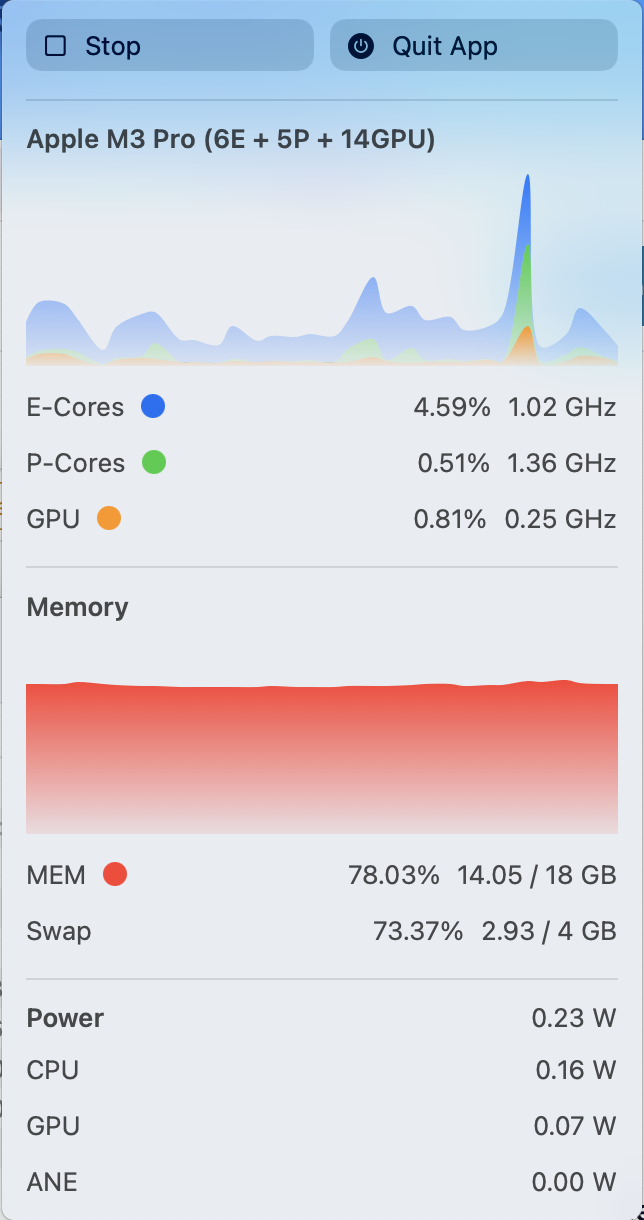
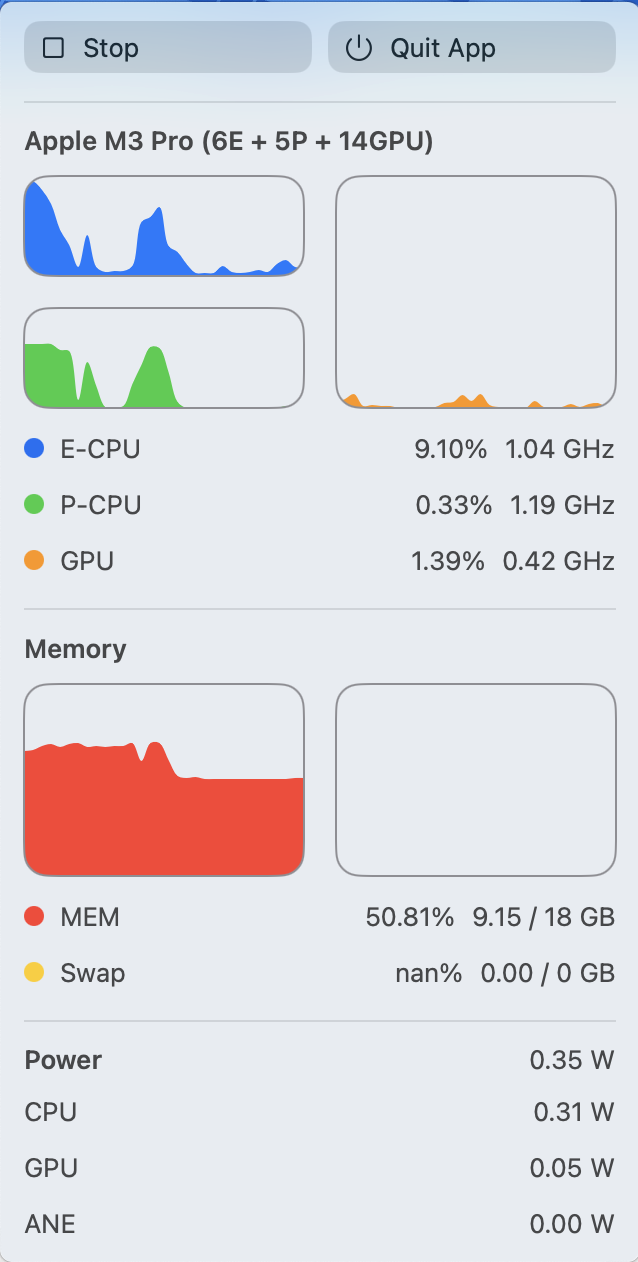
v1.1: Improve menu UI

diff --git a/StatsBar/View/MenuView.swift b/StatsBar/View/MenuView.swift
@@ -10,12 +10,29 @@ import Charts
 import Collections
 
 struct UsagePoint: Identifiable {
-    let id: UInt64 = UInt64(Date().timeIntervalSince1970.magnitude)
-    let eCPUUsage: Double
-    let pCPUUsage: Double
+    let id: UInt64
+    let eCpuUsage: Double
+    let pCpuUsage: Double
     let gpuUsage: Double
     let memUsage: Double
     let swapUsage: Double
+
+    init(id: UInt64, eCPUUsage: Double, pCPUUsage: Double, gpuUsage: Double, memUsage: Double, swapUsage: Double) {
+        self.id = id
+        self.eCpuUsage = eCPUUsage
+        self.pCpuUsage = pCPUUsage
+        self.gpuUsage = gpuUsage
+        self.memUsage = memUsage
+        self.swapUsage = swapUsage
+    }
+
+    static func mockData() -> Deque<UsagePoint> {
+        var res: Deque<UsagePoint> = []
+        for _ in 0...32 {
+            res.append(UsagePoint(id: res.last?.id.advanced(by: 1) ?? 1, eCPUUsage: 0, pCPUUsage: 0, gpuUsage: 0, memUsage: 0, swapUsage: 0))
+        }
+        return res
+    }
 }
 
 struct MenuView: View {
@@ -25,7 +42,8 @@ struct MenuView: View {
     @State private var metrics: Metrics?
     @State var delegate: AppDelegate
 
-    @State private var usageGraph: Deque<UsagePoint> = []
+    @State private var usageGraph: Deque<UsagePoint> = UsagePoint.mockData()
+    @State private var graphShape = RoundedRectangle(cornerRadius: 12)
 
     var body: some View {
         VStack {
@@ -51,7 +69,16 @@ struct MenuView: View {
                                     DispatchQueue.main.async {
                                         self.metrics = metrics
 
-                                        self.usageGraph.append(UsagePoint(eCPUUsage: metrics.getECPUInfo()[0], pCPUUsage: metrics.getPCPUInfo()[0], gpuUsage: metrics.getGPUUsage(), memUsage: metrics.getMemUsage(), swapUsage: metrics.getSwapUsage()))
+                                        self.usageGraph.append(
+                                            UsagePoint(
+                                                id: self.usageGraph.last?.id.advanced(by: 1) ?? UInt64(Date().timeIntervalSince1970.magnitude),
+                                                eCPUUsage: metrics.getECPUInfo()[0],
+                                                pCPUUsage: metrics.getPCPUInfo()[0],
+                                                gpuUsage: metrics.getGPUUsage(),
+                                                memUsage: metrics.getMemUsage(),
+                                                swapUsage: metrics.getSwapUsage()
+                                            )
+                                        )
                                         while self.usageGraph.count > 32 {
                                             let _ = self.usageGraph.popFirst()
                                         }
@@ -82,7 +109,7 @@ struct MenuView: View {
                 Button {
                     NSApplication.shared.terminate(nil)
                 } label: {
-                    Label("Quit App", systemImage: "power.circle.fill")
+                    Label("Quit App", systemImage: "power")
                         .frame(maxWidth: .infinity, alignment: .leading)
                         .padding(.vertical, 4)
                 }
@@ -100,58 +127,92 @@ struct MenuView: View {
                         .fontWeight(.semibold)
                         .frame(maxWidth: .infinity, alignment: .leading)
 
-                    Chart(self.usageGraph) {
-                        AreaMark(
-                            x: .value("X", $0.id),
-                            y: .value("Y", $0.gpuUsage),
-                            series: .value("", "Ga")
-                        )
-                        .interpolationMethod(.catmullRom)
-                        .foregroundStyle(Gradient(colors: [Color.orange, Color.orange.opacity(0.1)]))
+                    HStack(spacing: 4) {
 
-                        AreaMark(
-                            x: .value("X", $0.id),
-                            y: .value("Y", $0.pCPUUsage),
-                            series: .value("", "Pa")
-                        )
-                        .interpolationMethod(.catmullRom)
-                        .foregroundStyle(Gradient(colors: [Color.green, Color.green.opacity(0.1)]))
+                        VStack(spacing: 4) {
+                            Chart(self.usageGraph) {
+                                AreaMark(
+                                    x: .value("X", $0.id),
+                                    y: .value("Y", $0.eCpuUsage)
+                                )
+                                .interpolationMethod(.catmullRom)
+                                .foregroundStyle(Color.accentColor)
+                                .mask { RectangleMark() }
+                            }
+                            .chartXAxis(.hidden)
+                            .chartYAxis(.hidden)
+                            .chartXScale(domain: [self.usageGraph.first?.id ?? 0, self.usageGraph.last?.id ?? 0])
+                            .chartYScale(domain: [0, 100])
+                            .clipShape(self.graphShape)
+                            .overlay(self.graphShape.stroke(.gray, lineWidth: 1))
 
-                        AreaMark(
-                            x: .value("X", $0.id),
-                            y: .value("Y", $0.eCPUUsage),
-                            series: .value("", "Ea")
-                        )
-                        .interpolationMethod(.catmullRom)
-                        .foregroundStyle(Gradient(colors: [Color.accentColor, Color.accentColor.opacity(0.1)]))
+                            Spacer()
+
+                            Chart(self.usageGraph) {
+                                AreaMark(
+                                    x: .value("X", $0.id),
+                                    y: .value("Y", $0.pCpuUsage)
+                                )
+                                .interpolationMethod(.catmullRom)
+                                .foregroundStyle(Color.green)
+                                .mask { RectangleMark() }
+                            }
+                            .chartXAxis(.hidden)
+                            .chartYAxis(.hidden)
+                            .chartXScale(domain: [self.usageGraph.first?.id ?? 0, self.usageGraph.last?.id ?? 0])
+                            .chartYScale(domain: [0, 100])
+                            .clipShape(self.graphShape)
+                            .overlay(self.graphShape.stroke(.gray, lineWidth: 1))
+                        }
+
+                        Spacer()
+
+                        Chart(self.usageGraph) {
+                            AreaMark(
+                                x: .value("X", $0.id),
+                                y: .value("Y", $0.gpuUsage)
+                            )
+                            .interpolationMethod(.catmullRom)
+                            .foregroundStyle(Color.orange)
+                            .mask { RectangleMark() }
+                        }
+                        .chartXAxis(.hidden)
+                        .chartYAxis(.hidden)
+                        .chartXScale(domain: [self.usageGraph.first?.id ?? 0, self.usageGraph.last?.id ?? 0])
+                        .chartYScale(domain: [0, 100])
+                        .clipShape(self.graphShape)
+                        .overlay(self.graphShape.stroke(.gray, lineWidth: 1))
                     }
-                    .chartXAxis(.hidden)
-                    .chartYAxis(.hidden)
-                    .chartXScale(domain: [self.usageGraph.first?.id ?? 0, self.usageGraph.last?.id ?? 0])
-                    .frame(height: 96)
+                    .frame(height: 116)
                     .padding(.vertical, 2)
 
-                    HStack {
-                        Text("E-Cores")
-                        RoundedRectangle(cornerSize: CGSize(width: 12, height: 12)).foregroundStyle(Color.accentColor).frame(width: 12, height: 12)
+                    HStack(alignment: .center) {
+                        RoundedRectangle(cornerSize: CGSize(width: 10, height: 10))
+                            .foregroundStyle(Color.accentColor)
+                            .frame(width: 10, height: 10, alignment: .center)
+                        Text("E-CPU")
                         Spacer()
                         Text(String(format: "%.2f%%", arguments: [metrics.getECPUInfo()[0]]))
                         Text(String(format: "%.2f GHz", arguments: [metrics.getECPUInfo()[1]]))
                     }
                     .padding(.vertical, 2)
 
-                    HStack {
-                        Text("P-Cores")
-                        RoundedRectangle(cornerSize: CGSize(width: 12, height: 12)).foregroundStyle(Color.green).frame(width: 12, height: 12)
+                    HStack(alignment: .center) {
+                        RoundedRectangle(cornerSize: CGSize(width: 10, height: 10))
+                            .foregroundStyle(Color.green)
+                            .frame(width: 10, height: 10, alignment: .center)
+                        Text("P-CPU")
                         Spacer()
                         Text(String(format: "%.2f%%", arguments: [metrics.getPCPUInfo()[0]]))
                         Text(String(format: "%.2f GHz", arguments: [metrics.getPCPUInfo()[1]]))
                     }
                     .padding(.vertical, 2)
 
-                    HStack {
+                    HStack(alignment: .center) {
+                        RoundedRectangle(cornerSize: CGSize(width: 10, height: 10))
+                            .foregroundStyle(Color.orange)
+                            .frame(width: 10, height: 10, alignment: .center)
                         Text("GPU")
-                        RoundedRectangle(cornerSize: CGSize(width: 12, height: 12)).foregroundStyle(Color.orange).frame(width: 12, height: 12)
                         Spacer()
                         Text(String(format: "%.2f%%", arguments: [metrics.getGPUUsage()]))
                         Text(String(format: "%.2f GHz", arguments: [metrics.getGPUFreq()]))
@@ -169,32 +230,57 @@ struct MenuView: View {
                         .fontWeight(.semibold)
                         .frame(maxWidth: .infinity, alignment: .leading)
 
-                    Chart(self.usageGraph) {
-                        AreaMark(
-                            x: .value("X", $0.id),
-                            y: .value("Y", $0.memUsage),
-                            series: .value("", "M")
-                        )
-                        .interpolationMethod(.catmullRom)
-                        .foregroundStyle(Gradient(colors: [Color.red, Color.red.opacity(0.1)]))
+                    HStack(spacing: 4) {
+                        Chart(self.usageGraph) {
+                            AreaMark(
+                                x: .value("X", $0.id),
+                                y: .value("Y", $0.memUsage)
+                            )
+                            .interpolationMethod(.catmullRom)
+                            .foregroundStyle(Color.red)
+                            .mask { RectangleMark() }
+                        }
+                        .chartXAxis(.hidden)
+                        .chartYAxis(.hidden)
+                        .chartXScale(domain: [self.usageGraph.first?.id ?? 0, self.usageGraph.last?.id ?? 0])
+                        .chartYScale(domain: [0, 100])
+                        .clipShape(self.graphShape)
+                        .overlay(self.graphShape.stroke(.gray, lineWidth: 1))
+
+                        Spacer()
+
+                        Chart(self.usageGraph) {
+                            AreaMark(
+                                x: .value("X", $0.id),
+                                y: .value("Y", $0.swapUsage)
+                            )
+                            .interpolationMethod(.catmullRom)
+                            .foregroundStyle(Color.yellow)
+                            .mask { RectangleMark() }
+                        }
+                        .chartXAxis(.hidden)
+                        .chartYAxis(.hidden)
+                        .chartXScale(domain: [self.usageGraph.first?.id ?? 0, self.usageGraph.last?.id ?? 0])
+                        .chartYScale(domain: [0, 100])
+                        .clipShape(self.graphShape)
+                        .overlay(self.graphShape.stroke(.gray, lineWidth: 1))
                     }
-                    .chartXAxis(.hidden)
-                    .chartYAxis(.hidden)
-                    .chartXScale(domain: [self.usageGraph.first?.id ?? 0, self.usageGraph.last?.id ?? 0])
-                    .chartYScale(domain: [0, 100])
                     .frame(height: 96)
                     .padding(.vertical, 2)
 
-                    HStack {
+                    HStack(alignment: .center) {
+                        RoundedRectangle(cornerSize: CGSize(width: 10, height: 10)).foregroundStyle(Color.red).frame(width: 10, height: 10, alignment: .center)
                         Text("MEM")
-                        RoundedRectangle(cornerSize: CGSize(width: 12, height: 12)).foregroundStyle(Color.red).frame(width: 12, height: 12)
                         Spacer()
                         Text(String(format: "%.2f%%", arguments: [metrics.getMemUsage()]))
                         Text(String(format: "%.2f / %d GB", arguments: [metrics.getMemUsed(), metrics.getTotalMemory()]))
                     }
                     .padding(.vertical, 2)
 
-                    HStack {
+                    HStack(alignment: .center) {
+                        RoundedRectangle(cornerSize: CGSize(width: 10, height: 10))
+                            .foregroundStyle(Color.yellow)
+                            .frame(width: 10, height: 10, alignment: .center)
                         Text("Swap")
                         Spacer()
                         Text(String(format: "%.2f%%", arguments: [metrics.getSwapUsage()]))

diff --git a/StatsBar/StatsBarApp.swift b/StatsBar/StatsBarApp.swift
@@ -32,7 +32,7 @@ class AppDelegate: NSObject, ObservableObject, NSApplicationDelegate {
 
     func setupMenu() {
         let contentView = NSHostingView(rootView: MenuView(delegate: self))
-        contentView.frame = NSRect(x: 0, y: 0, width: 320, height: 600)
+        contentView.frame = NSRect(x: 0, y: 0, width: 320, height: 620)
 
         let menuItem = NSMenuItem()
         menuItem.view = contentView
